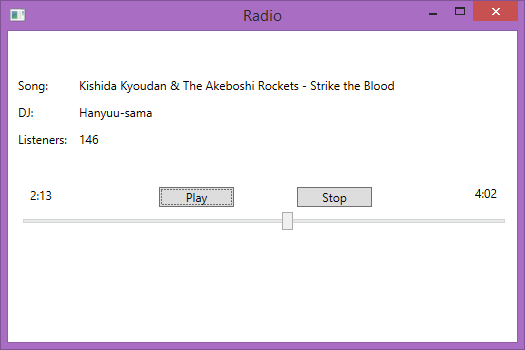
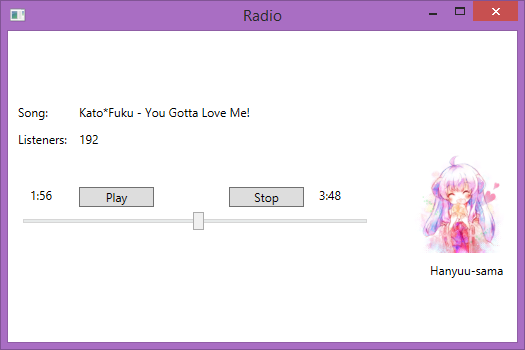
Now shows Dj Image
DjImage class added.

diff --git a/Radio/MainWindow.xaml b/Radio/MainWindow.xaml
@@ -7,21 +7,23 @@
         mc:Ignorable="d"
         Title="Radio" Height="350" Width="525">
     <Grid>
-        <TextBlock x:Name="textBlockSong" HorizontalAlignment="Left" Margin="10,46,0,0" TextWrapping="Wrap" Text="Song:" VerticalAlignment="Top" Height="22" Width="38"/>
-        <TextBlock x:Name="textBlockSongValue" HorizontalAlignment="Left" Margin="71,46,0,0" TextWrapping="Wrap" VerticalAlignment="Top" Height="22" Width="436"><Run Text=""/></TextBlock>
-        <TextBlock x:Name="textBlockDJ" HorizontalAlignment="Left" Margin="10,73,0,0" TextWrapping="Wrap" Text="DJ:" VerticalAlignment="Top" Height="22" Width="38"/>
-        <TextBlock x:Name="textBlockDJValue" HorizontalAlignment="Left" Margin="71,73,0,0" TextWrapping="Wrap" VerticalAlignment="Top" Height="22" Width="436"><Run Text=""/></TextBlock>
+        <TextBlock x:Name="textBlockSong" HorizontalAlignment="Left" Margin="10,73,0,0" TextWrapping="Wrap" Text="Song:" VerticalAlignment="Top" Height="22" Width="38"/>
+        <TextBlock x:Name="textBlockSongValue" HorizontalAlignment="Left" Margin="71,73,0,0" TextWrapping="Wrap" VerticalAlignment="Top" Height="22" Width="436"><Run Text=""/></TextBlock>
+        <!--<TextBlock x:Name="textBlockDJ" HorizontalAlignment="Left" Margin="10,73,0,0" TextWrapping="Wrap" Text="DJ:" VerticalAlignment="Top" Height="22" Width="38"/>-->
+        <!--<TextBlock x:Name="textBlockDJValue" HorizontalAlignment="Left" Margin="71,73,0,0" TextWrapping="Wrap" VerticalAlignment="Top" Height="22" Width="436"><Run Text=""/></TextBlock>-->
         <TextBlock x:Name="textBlockListeners" HorizontalAlignment="Left" Margin="10,100,0,0" TextWrapping="Wrap" Text="Listeners:" VerticalAlignment="Top" Height="22" Width="56"/>
         <TextBlock x:Name="textBlockListenersValue" HorizontalAlignment="Left" Margin="71,100,0,0" TextWrapping="Wrap" VerticalAlignment="Top" Height="22" Width="436"><Run Text=""/></TextBlock>
         
         <TextBlock x:Name="textBlockCurrentTimeValue" HorizontalAlignment="Left" Margin="22,156,0,0" TextWrapping="Wrap" VerticalAlignment="Top" Height="22" Width="35"><Run Text=""/></TextBlock>
         <Label Target="{Binding ElementName=buttonPlay}" FontSize=".1" Margin="10,217,491,87">>_Play</Label>
-        <Button x:Name="buttonPlay" Content="Play" HorizontalAlignment="Left" Margin="151,156,0,0" VerticalAlignment="Top" Width="75" Click="buttonPlay_Click"/>
+        <Button x:Name="buttonPlay" Content="Play" HorizontalAlignment="Left" Margin="71,156,0,0" VerticalAlignment="Top" Width="75" Click="buttonPlay_Click"/>
         <Label Target="{Binding ElementName=buttonStop}" FontSize=".1" Margin="10,237,501,72">>_Stop</Label>
-        <Button x:Name="buttonStop" Content="Stop" HorizontalAlignment="Left" Margin="289,156,0,0" VerticalAlignment="Top" Width="75" Click="buttonStop_Click"/>
-        <TextBlock x:Name="textBlockEndTimeSecondsValue" HorizontalAlignment="Left" Margin="467,154,0,0" TextWrapping="Wrap" VerticalAlignment="Top" Height="22" Width="35"><Run Text=""/></TextBlock>
-        <Slider x:Name="slider" HorizontalAlignment="Left" Margin="10,181,0,0" VerticalAlignment="Top" Width="492"/>
-        
+        <Button x:Name="buttonStop" Content="Stop" HorizontalAlignment="Left" Margin="221,156,0,0" VerticalAlignment="Top" Width="75" Click="buttonStop_Click"/>
+        <TextBlock x:Name="textBlockEndTimeSecondsValue" HorizontalAlignment="Left" Margin="311,156,0,0" TextWrapping="Wrap" VerticalAlignment="Top" Height="22" Width="35"><Run Text=""/></TextBlock>
+        <Slider x:Name="slider" HorizontalAlignment="Left" Margin="10,181,0,0" VerticalAlignment="Top" Width="354"/>
+        <Image x:Name="image" HorizontalAlignment="Left" Height="100" Margin="402,122,0,0" VerticalAlignment="Top" Width="100" RenderOptions.BitmapScalingMode="HighQuality"/>
+        <TextBlock x:Name="textBlockDJValue" HorizontalAlignment="Left" Margin="422,231,0,0" TextWrapping="Wrap" Text="" VerticalAlignment="Top"/>
+
 
 
     </Grid>

diff --git a/Radio/DjImage.cs b/Radio/DjImage.cs
@@ -1,0 +1,82 @@
+using System;
+using System.Collections.Generic;
+using System.Linq;
+using System.Text;
+using System.Threading.Tasks;
+
+using System.Windows.Media.Imaging;
+namespace Radio
+{
+    class DjImage
+    {
+
+        // Fields
+        /// TODO: Field to save image.
+        BitmapImage _image;
+        bool _loadImage;
+        /// TODO: Http Connection, maybe use a delegate or event, and the timer in Songs.cs should control
+        /// when to fetch the image again. Optimization wise: If the new Dj name fetched is the same as the
+        /// already Dj name, there's no need to fetch again the image.
+
+        // Constructors
+        public DjImage() {}
+
+        // Properties
+        /// <summary>
+        /// Dj's Id
+        /// </summary>
+        public string Id { get; set; }
+
+        /// <summary>
+        /// Returns the BitmapImage
+        /// </summary>
+        public BitmapImage Image
+        {
+            get { return _image; }
+        }
+
+        /// <summary>
+        /// True if need to download a new image, false otherwise.
+        /// </summary>
+        private bool NeedToDownloadImage
+        {
+            get { return _loadImage; }
+        }
+
+
+        // Methods
+        /// <summary>
+        /// Compares the current Dj Id with a new Id, if they're different that means a new dj is playing.
+        /// Sets _loadImage to true and the new Id.
+        /// </summary>
+        /// <param name="DjName">Dj's Id</param>
+        public void IsNewDjPlaying(string DjName)
+        {
+            if (String.IsNullOrEmpty(Id) || Id != DjName)
+            {
+                _loadImage = true;
+                Id = DjName;
+            }
+            else
+            {
+                _loadImage = false;
+            }
+        }
+
+        /// <summary>
+        /// Checks if there's a new DJ playing, and fetchs the new image.
+        /// </summary>
+        public void LoadNewImage()
+        {
+            if (!NeedToDownloadImage)
+            {
+                return;
+            }
+            _image = new BitmapImage();
+            _image.BeginInit();
+            _image.UriSource = new Uri("https://r-a-d.io/api/dj-image/" + Id + ".jpg",
+                    UriKind.Absolute);
+            _image.EndInit();
+        }
+    }
+}

diff --git a/Radio/Player.cs b/Radio/Player.cs
@@ -19,16 +19,6 @@ namespace Radio
             Paused
         }
 
-        /*public MainWindow()
-        {
-            InitializeComponent();
-            comboUrl.SelectedIndex = 0;
-            mediaElement.LoadedBehavior = MediaState.Manual;
-            mediaElement.MediaOpened += OnMediaOpened;
-            mediaElement.MediaFailed += OnMediaFailed;
-            timer1.Interval = 250;
-            timer1.Tick += timer1_Tick;
-        }*/
         // Fields
         private BufferedWaveProvider bufferedWaveProvider;
         private IWavePlayer waveOut;
@@ -38,6 +28,7 @@ namespace Radio
         private VolumeWaveProvider16 volumeProvider;
         private System.Windows.Forms.Timer timer1 = new System.Windows.Forms.Timer();
         private string Url {get; set;}
+
         // Constructors
         public Player(string StreamUrlMp3)
         {
@@ -45,26 +36,6 @@ namespace Radio
             timer1.Tick += timer1_Tick;
             Url = StreamUrlMp3;
         }
-
-        /*private void StopClick(object sender, RoutedEventArgs e)
-        {
-            mediaElement.Stop();
-        }
-
-        private void RewindClick(object sender, RoutedEventArgs e)
-        {
-            mediaElement.Position = TimeSpan.Zero;
-        }
-
-        void OnMediaFailed(object sender, ExceptionRoutedEventArgs e)
-        {
-            textdebug.Text = e.ErrorException.Message;
-        }*/
-
-        /*void OnMediaOpened(object sender, RoutedEventArgs routedEventArgs)
-        {
-            labelDuration.Content = mediaElement.NaturalDuration.ToString();
-        }*/
 
         private void StreamMp3(object state)
         {

diff --git a/Radio/Song.cs b/Radio/Song.cs
@@ -7,26 +7,27 @@ using System.Net;
 using System.IO;
 using Newtonsoft.Json;
 using System.Windows;
-
+using System.Windows.Media.Imaging;
 using System.Windows.Controls;
 using System.Windows.Forms;
 
 namespace Radio
 {
-    /// OK!: Auto-update
     /// TODO: Get DJ image with XHTTP?
-    /// OK!: Convert seconds to Min:Seconds
-
+    /// TODO: Get album image from last.fm
+    /// TODO: Make scrobbling to last.fm possible.
     class Song
     {
         public string Name { get; set; }
         public string Dj { get; set; }
+        public string DjId { get; private set; }
         public int Listeners { get; set; }
 
         private int _startTime;
         private int _endTime;
         private int _currentTime;
 
+        public DjImage Image;
         /// <summary>
         /// CurrentTime holds the current second of the song playing.
         /// </summary>
@@ -76,7 +77,10 @@ namespace Radio
             private set { }
         }
 
-        public Song() { }
+        public Song()
+        {
+            Image = new DjImage();
+        }
 
         /// <summary>
         /// Calculates the total seconds.
@@ -127,6 +131,7 @@ namespace Radio
                 StartTime = jsonData.main.start_time;
                 CurrentTime = jsonData.main.current;
                 EndTime = jsonData.main.end_time;
+                DjId = jsonData.main.dj.id;
             }
             catch (Exception)
             {

diff --git a/Radio/Updater.cs b/Radio/Updater.cs
@@ -16,7 +16,7 @@ namespace Radio
     static class Updater
     {
         static bool _hasStarted = false;
-
+        /// TODO: Update description.
         /// <summary>
         /// Calls the counter update, and checks the _hasStarted variable to run the if for the first time.
         /// </summary>
@@ -28,7 +28,7 @@ namespace Radio
         /// <param name="CurrentTime"></param>
         /// <param name="EndTime"></param>
         /// <param name="Sldr"></param>
-        public static void NeedToUpdate(ref Song Current, ref TextBlock Song, ref TextBlock DJ, ref TextBlock Listeners, ref TextBlock CurrentTime, ref TextBlock EndTime, ref Slider Sldr)
+        public static void NeedToUpdate(ref Song Current, ref TextBlock Song, ref TextBlock DJ, ref TextBlock Listeners, ref TextBlock CurrentTime, ref TextBlock EndTime, ref Slider Sldr, ref Image Img)
         {
             if (Current.TickerAndUpdate() || !_hasStarted)
             {
@@ -39,6 +39,9 @@ namespace Radio
                 EndTime.Text = Current.EndTime;
                 Sldr.Maximum = Current.DoubleEndTime;
                 Sldr.Value = 0;
+                Current.Image.IsNewDjPlaying(Current.DjId);
+                Current.Image.LoadNewImage();
+                Img.Source = Current.Image.Image;
                 _hasStarted = true;
             }
             else

diff --git a/Radio/MainWindow.xaml.cs b/Radio/MainWindow.xaml.cs
@@ -43,11 +43,11 @@ namespace Radio
             // Call it here, otherwise it will take 1 more second to show data because Tick.
             Updater.NeedToUpdate(ref playingNow, ref textBlockSongValue,
                     ref textBlockDJValue, ref textBlockListenersValue,
-                    ref textBlockCurrentTimeValue, ref textBlockEndTimeSecondsValue, ref slider);
+                    ref textBlockCurrentTimeValue, ref textBlockEndTimeSecondsValue, ref slider, ref image);
 
             t.Tick += new EventHandler((sender, e) => Updater.NeedToUpdate(ref playingNow, ref textBlockSongValue,
                     ref textBlockDJValue, ref textBlockListenersValue,
-                    ref textBlockCurrentTimeValue, ref textBlockEndTimeSecondsValue, ref slider));
+                    ref textBlockCurrentTimeValue, ref textBlockEndTimeSecondsValue, ref slider, ref image));
             t.Start();
         }
 
